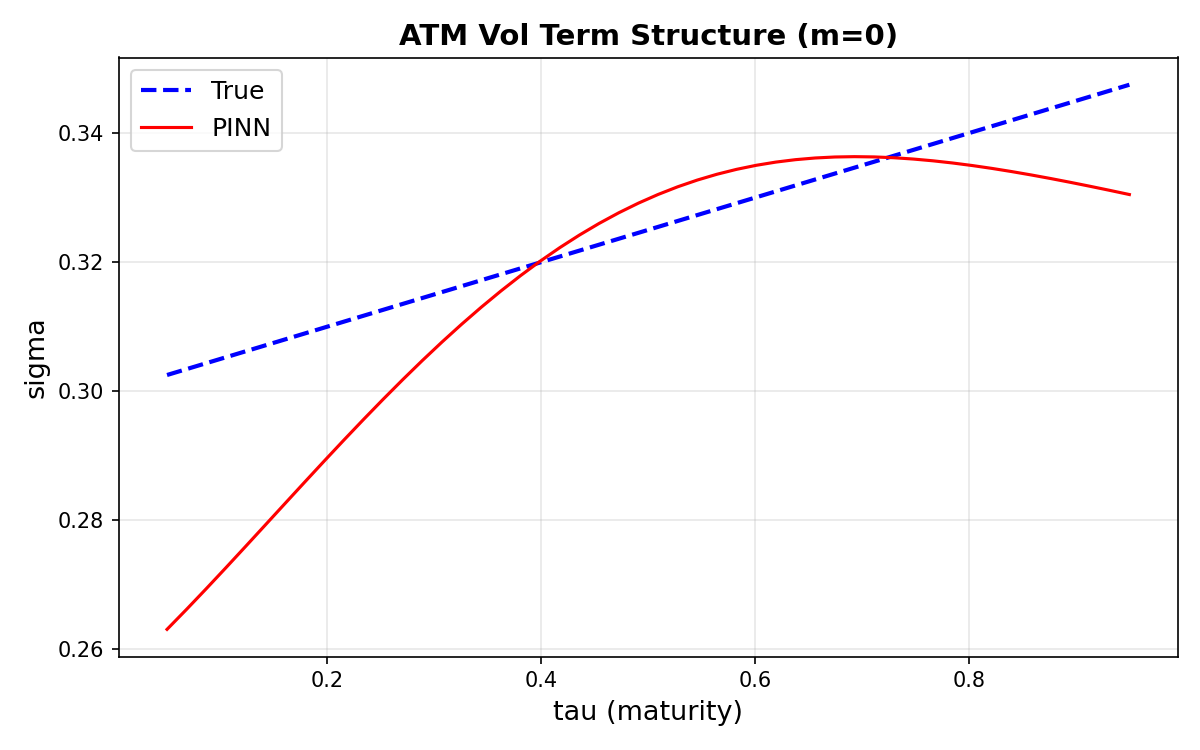
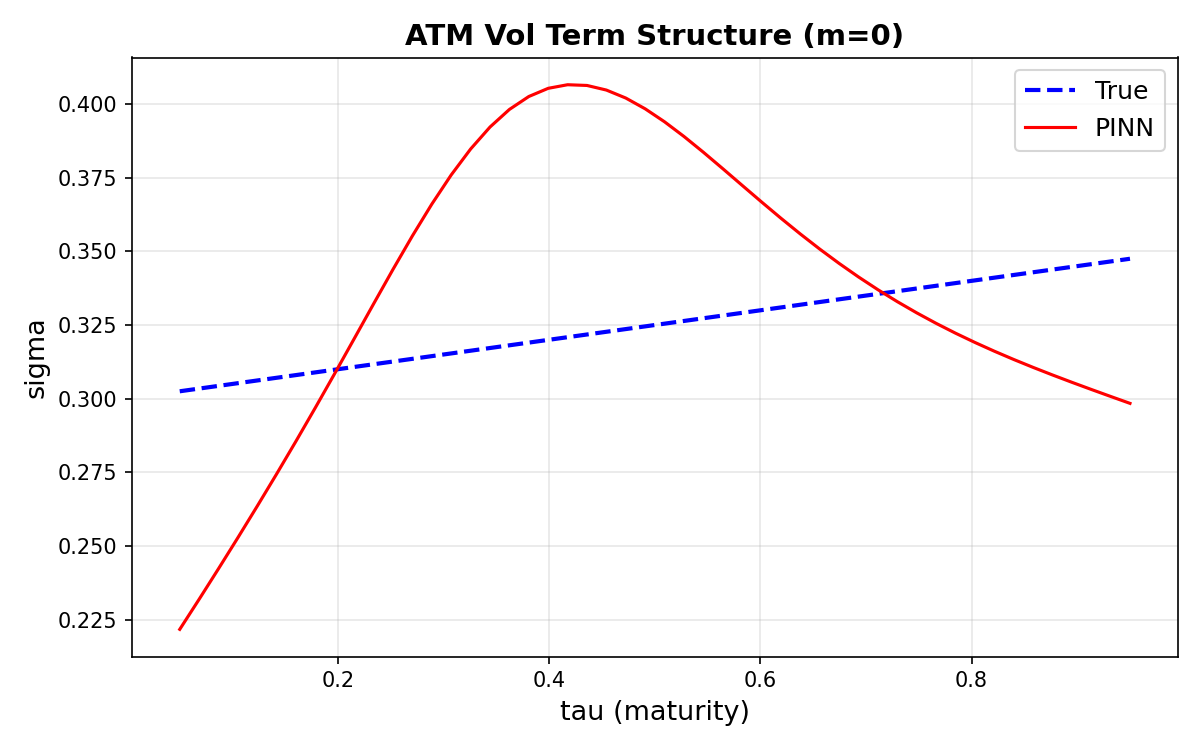
Safety check

diff --git a/phase2_inverse/train_phase2.py b/phase2_inverse/train_phase2.py
@@ -63,13 +63,13 @@ TRAIN = {
     'n_ic': 300,
     # Loss weights (initial)
     'lambda_data': 10.0,
-    'lambda_pde': 1.0,
-    'lambda_smooth': 0.05,
+    'lambda_pde': 2.0,
+    'lambda_smooth': 0.1,
     'lambda_ic': 1.0,
     # Target Gradient Ratios (Loss Balancer)
-    'ratio_data': 1.0,
-    'ratio_pde': 1.0,
-    'ratio_smooth': 0.01,
+    'ratio_data': 5.0,
+    'ratio_pde': 2.0,
+    'ratio_smooth': 0.1,
     'ratio_ic': 1.0,
     # Adam phase
     'adam_epochs': 15_000,
